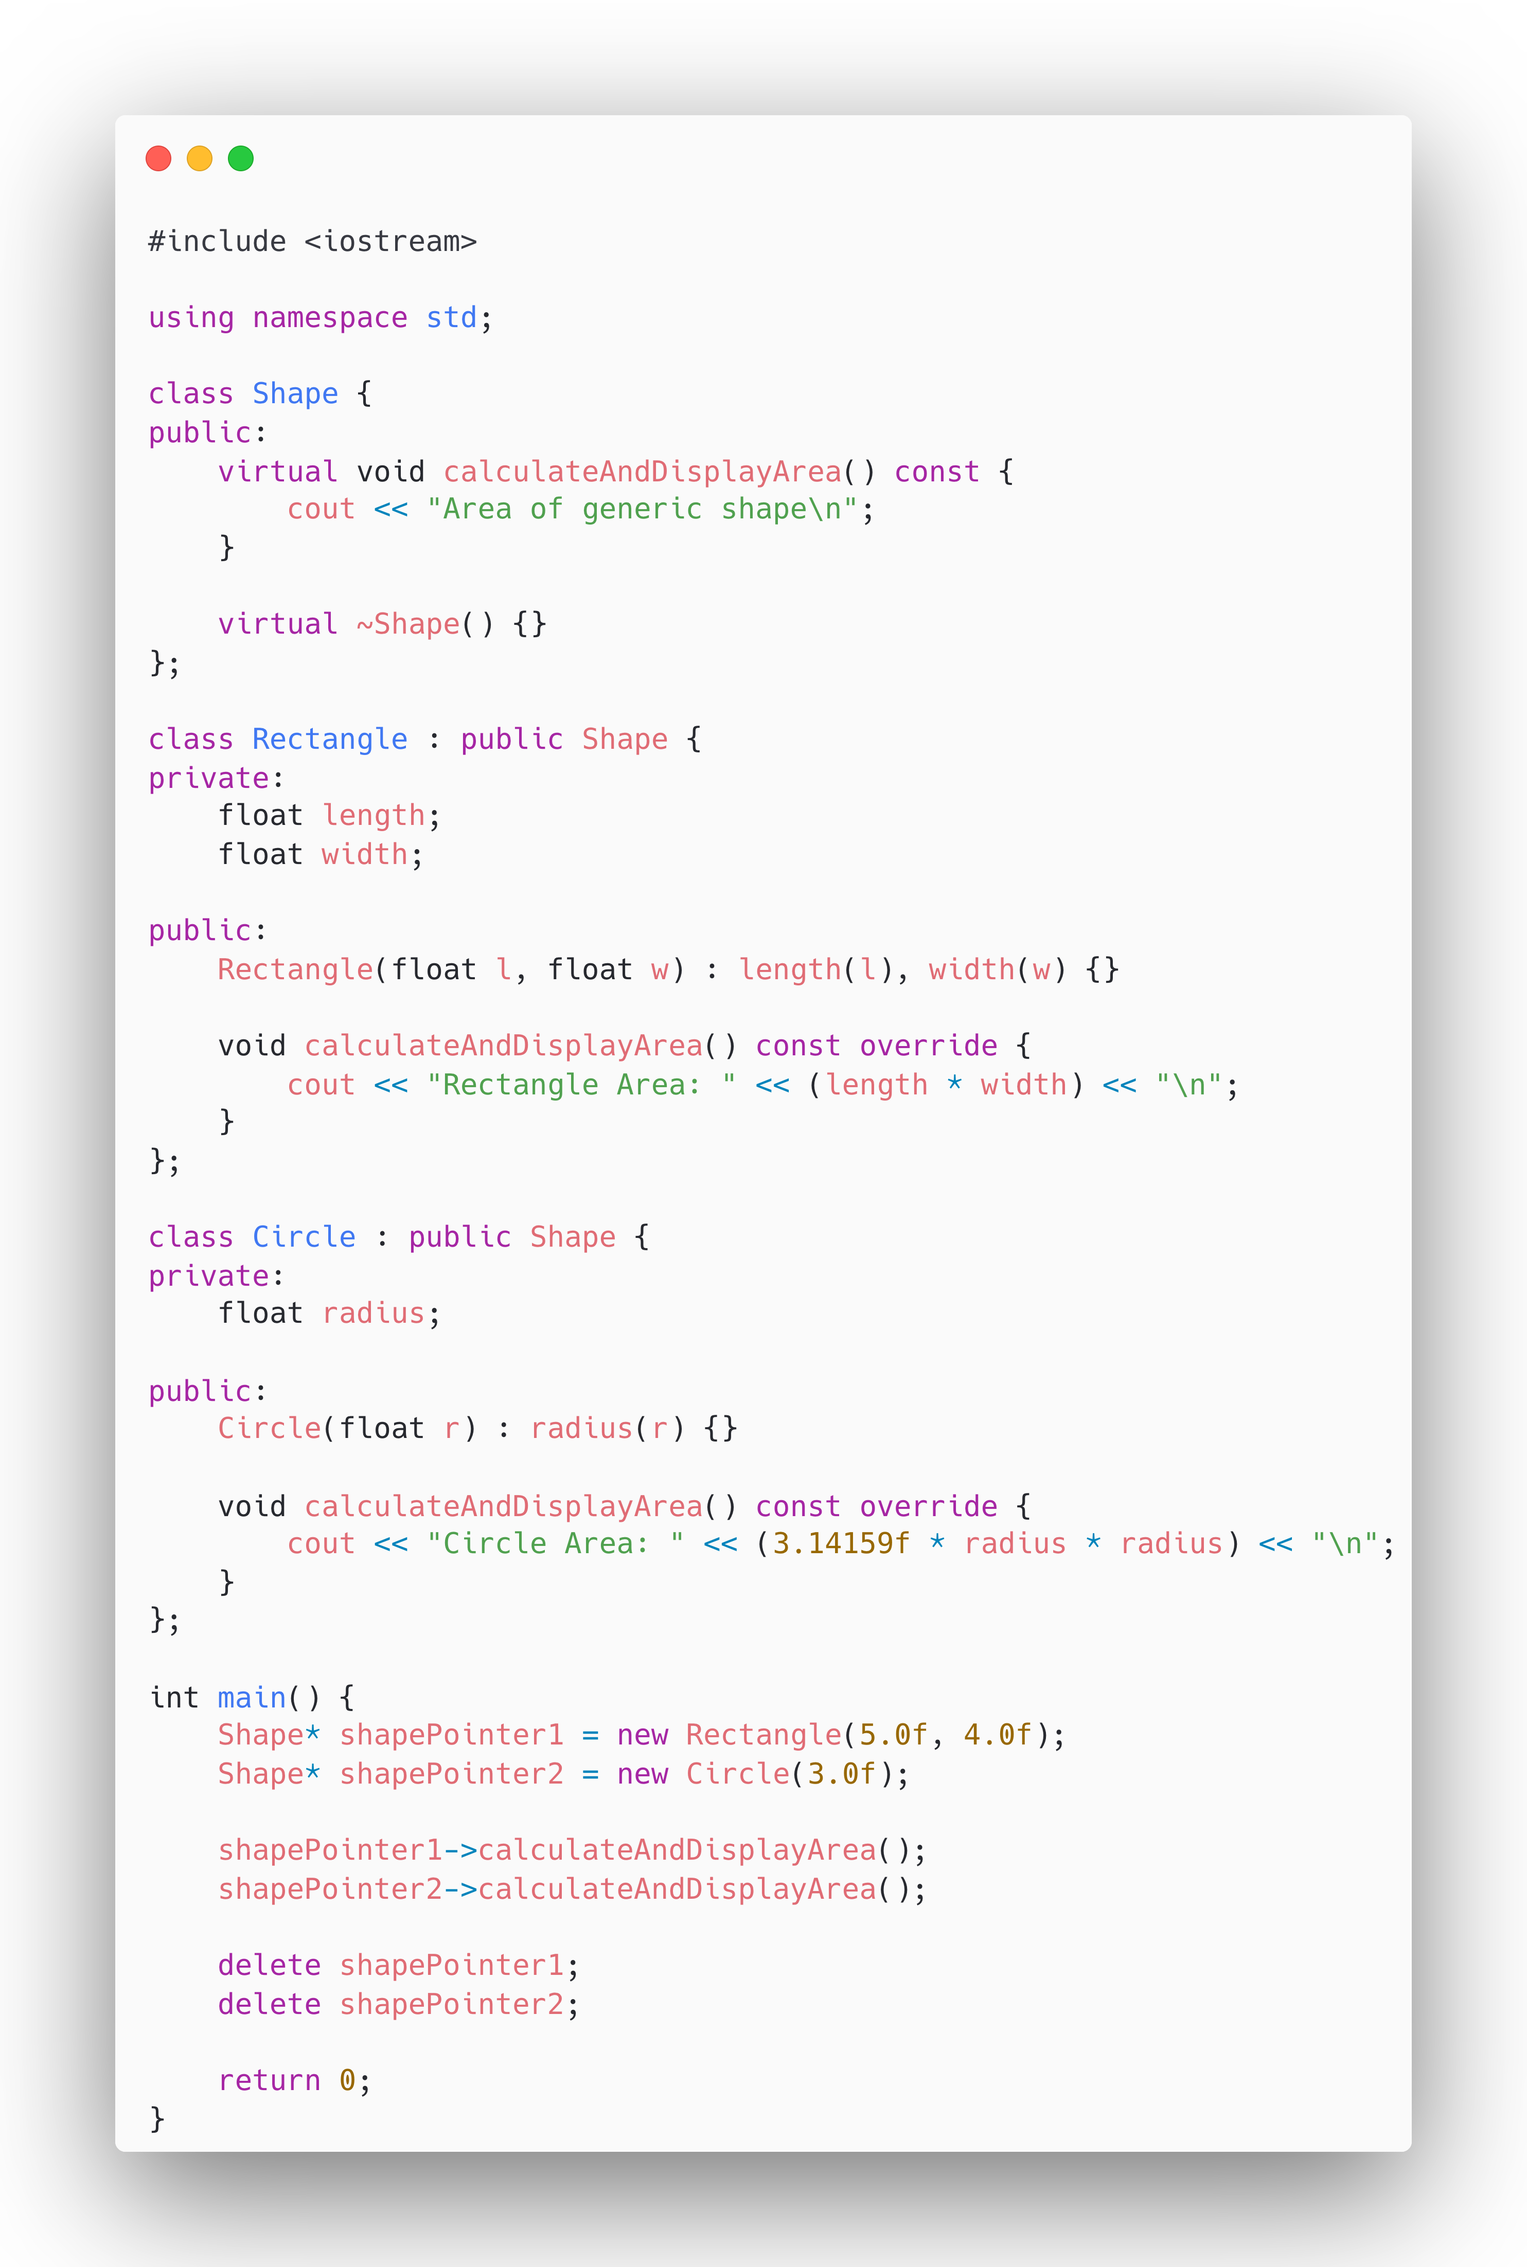
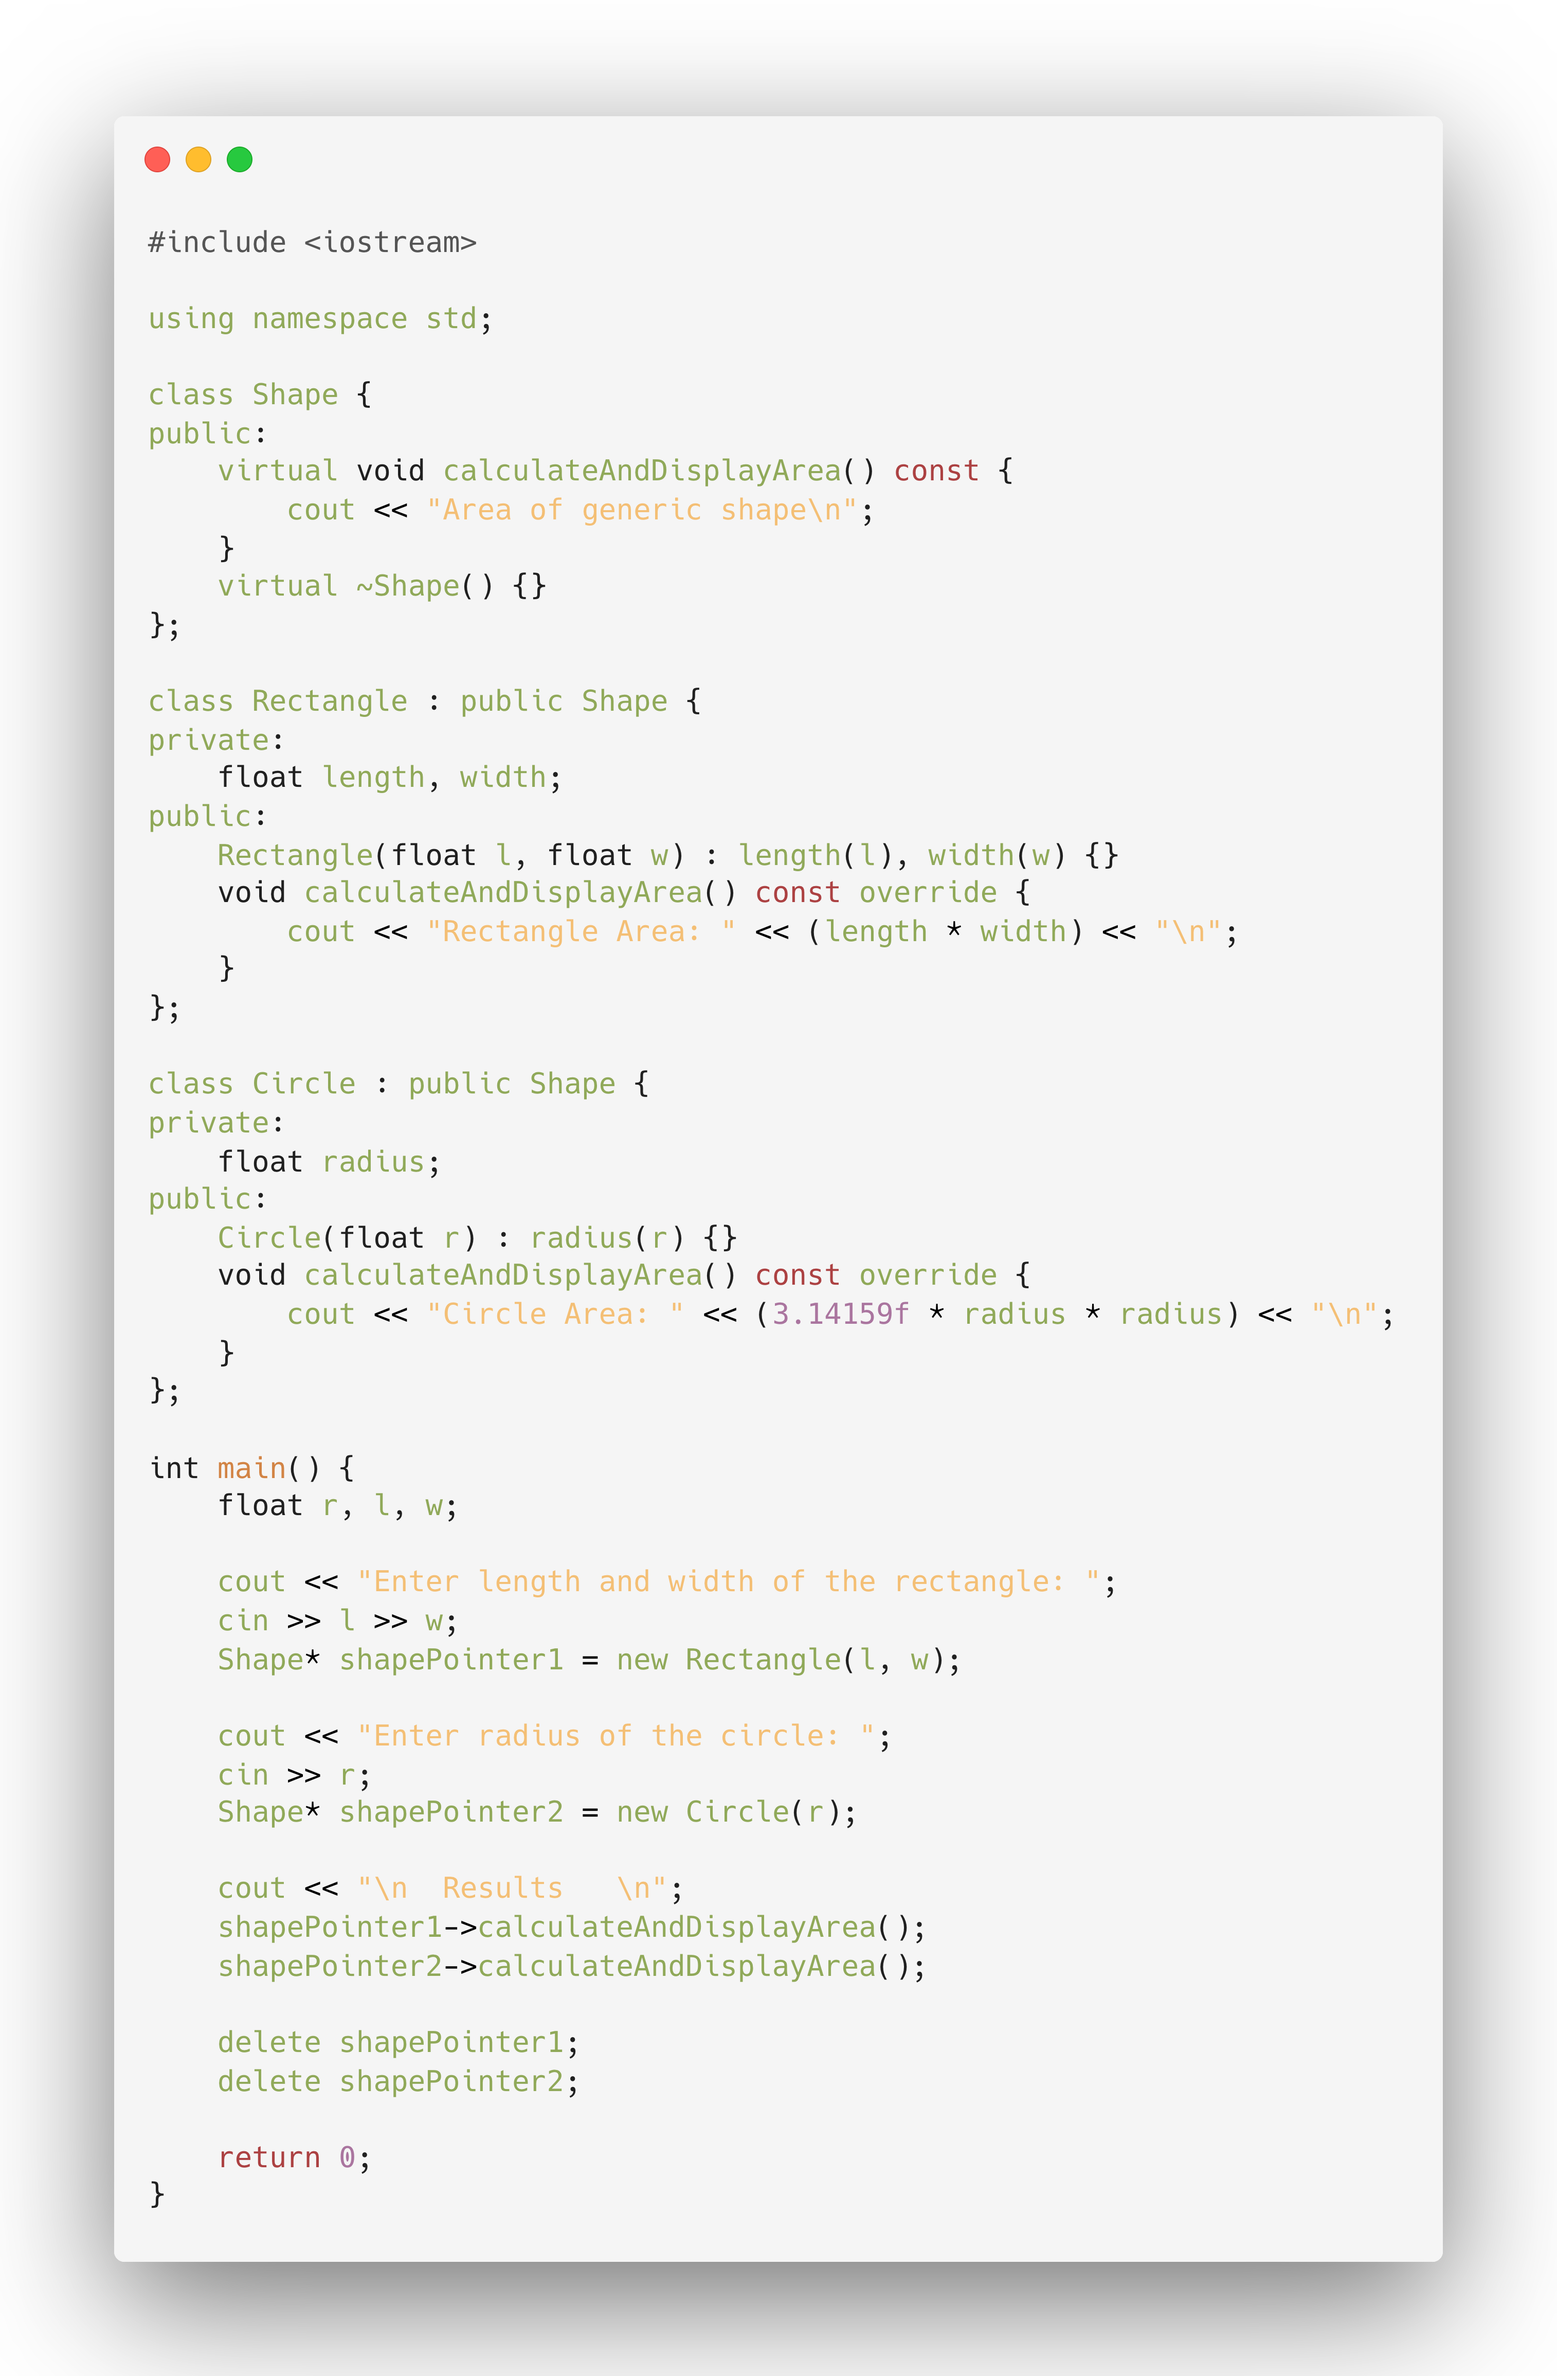
updates exp1 program 2

diff --git a/src/exp1/program2.cc b/src/exp1/program2.cc
@@ -7,18 +7,14 @@ public:
     virtual void calculateAndDisplayArea() const {
         cout << "Area of generic shape\n";
     }
-    
     virtual ~Shape() {}
 };
 
 class Rectangle : public Shape {
 private:
-    float length;
-    float width;
-
+    float length, width;
 public:
     Rectangle(float l, float w) : length(l), width(w) {}
-
     void calculateAndDisplayArea() const override {
         cout << "Rectangle Area: " << (length * width) << "\n";
     }
@@ -27,19 +23,25 @@ public:
 class Circle : public Shape {
 private:
     float radius;
-
 public:
     Circle(float r) : radius(r) {}
-
     void calculateAndDisplayArea() const override {
         cout << "Circle Area: " << (3.14159f * radius * radius) << "\n";
     }
 };
 
 int main() {
-    Shape* shapePointer1 = new Rectangle(5.0f, 4.0f);
-    Shape* shapePointer2 = new Circle(3.0f);
+    float r, l, w;
 
+    cout << "Enter length and width of the rectangle: ";
+    cin >> l >> w;
+    Shape* shapePointer1 = new Rectangle(l, w);
+
+    cout << "Enter radius of the circle: ";
+    cin >> r;
+    Shape* shapePointer2 = new Circle(r);
+
+    cout << "\n  Results   \n";
     shapePointer1->calculateAndDisplayArea();
     shapePointer2->calculateAndDisplayArea();
 
